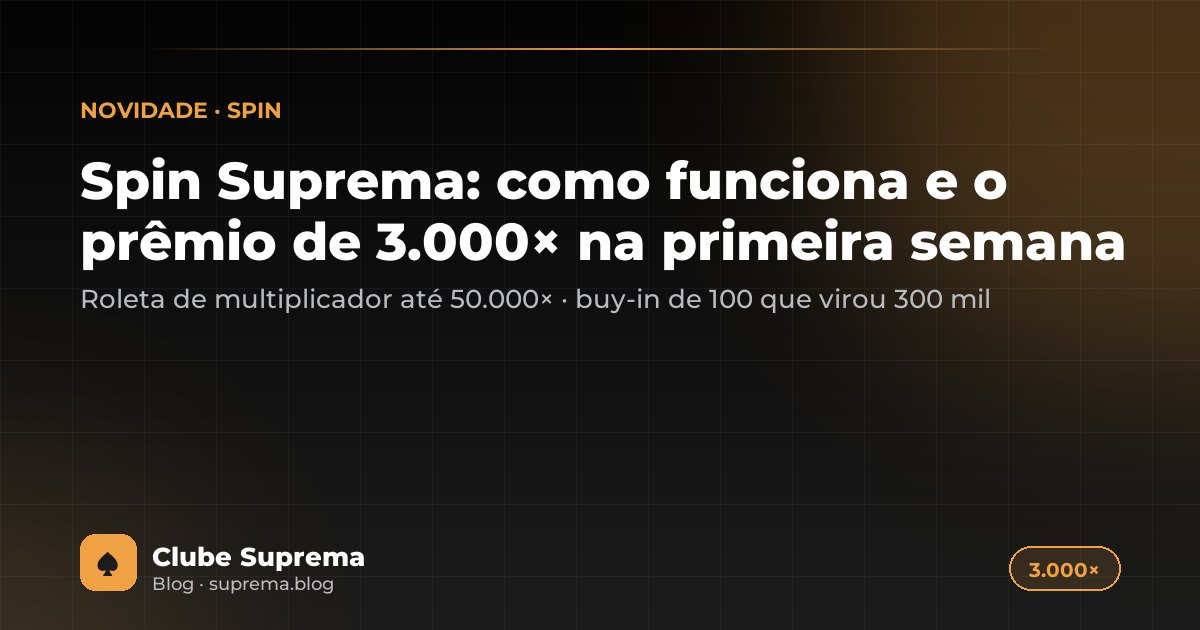
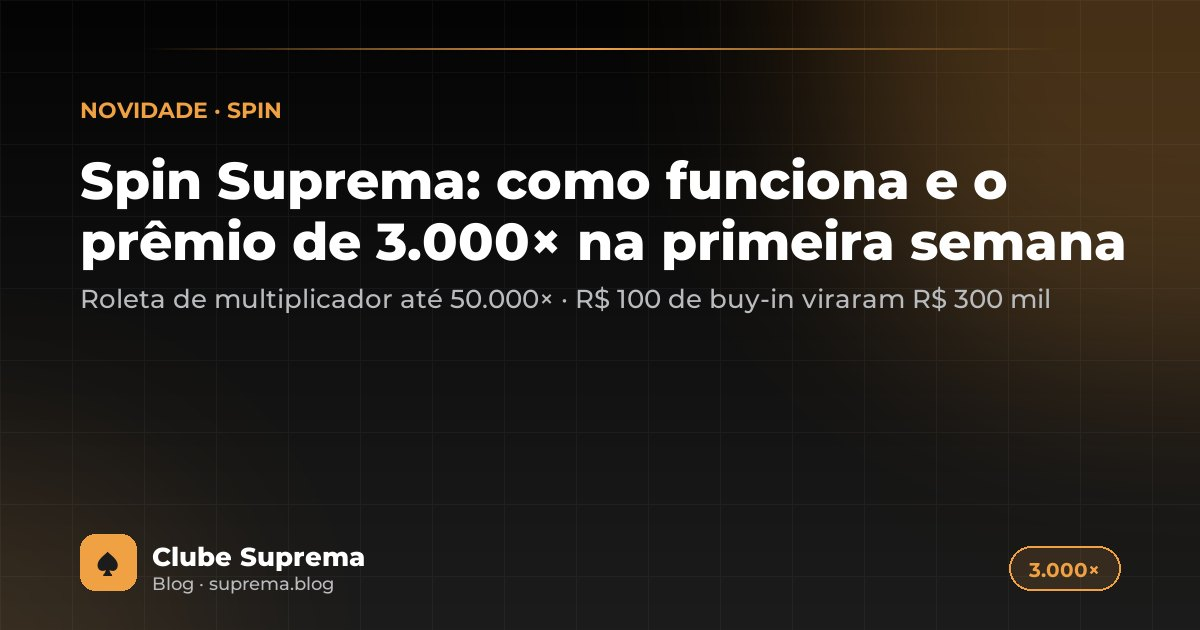
Post do Spin: valores em reais (buy-in de R$ 100, premiação de R$ 300 mil)

Changed region(s): [[0.5858, 0.4524, 0.8942, 0.5127], [0.4625, 0.4524, 0.555, 0.5127]]

diff --git a/content/blog/spin-suprema-como-funciona-e-primeiro-grande-ganhador.md b/content/blog/spin-suprema-como-funciona-e-primeiro-grande-ganhador.md
@@ -1,6 +1,6 @@
 ---
 title: "Spin Suprema: como funciona e o prêmio de 3.000× na primeira semana"
-description: O que é o Spin Suprema do app Suprema Poker, como a roleta do multiplicador funciona (até 50.000× o buy-in), mesas de 3 ou 6 jogadores, e a história do primeiro grande ganhador, que transformou um buy-in de 100 em 300 mil de premiação logo na primeira semana.
+description: O que é o Spin Suprema do app Suprema Poker, como a roleta do multiplicador funciona (até 50.000× o buy-in), mesas de 3 ou 6 jogadores, e a história do primeiro grande ganhador, que transformou um buy-in de R$ 100 em R$ 300 mil de premiação logo na primeira semana.
 date: 2026-10-24
 updated: 2026-10-24
 cover: /img/blog/spin-suprema-como-funciona-e-primeiro-grande-ganhador/cover.jpg
@@ -12,14 +12,14 @@ faq:
   - q: Qual o maior multiplicador do Spin Suprema?
     a: Nas mesas de 3 jogadores os multiplicadores chegam a 1.000× ou 10.000×, conforme a configuração; nas mesas de 6, a premiação máxima é de 50.000× o buy-in.
   - q: Como é dividida a premiação em um Spin grande?
-    a: No Spin de 3.000× registrado na primeira semana, a premiação total de 300.000 foi dividida em 150.000 para o campeão, 90.000 para o segundo e 60.000 para o terceiro, ou seja, 50%, 30% e 20%. Em multiplicadores baixos a premiação costuma ficar toda com o vencedor; a tabela completa está no app, em "Prêmios e probabilidades".
+    a: No Spin de 3.000× registrado na primeira semana, a premiação total de R$ 300.000 foi dividida em R$ 150.000 para o campeão, R$ 90.000 para o segundo e R$ 60.000 para o terceiro, ou seja, 50%, 30% e 20%. Em multiplicadores baixos a premiação costuma ficar toda com o vencedor; a tabela completa está no app, em "Prêmios e probabilidades".
   - q: Onde vejo as chances de cada multiplicador?
     a: Dentro do app, na própria área do Spin, em "Prêmios e probabilidades". Multiplicadores altos são raros; a maioria dos Spins sai com o multiplicador mínimo.
   - q: Preciso estar no Clube Suprema para jogar o Spin?
     a: O Spin é um formato do app Suprema Poker e aparece no lobby dos clubes que o oferecem. Entrando no Clube Suprema (ID 10001) você joga com as fichas do clube, compradas por PIX pelo Fichas 24h.
 ---
 
-O **Spin Suprema** chegou ao app Suprema Poker em outubro de 2026 e virou assunto em uma semana: um torneio que começa com três jogadores, dura minutos e pode pagar até **50.000 vezes o buy-in**. Este post explica como o formato funciona, o que já se sabe sobre multiplicadores e divisão de prêmios, e conta a história do **primeiro grande ganhador**, que viu a roleta parar em **3.000×** e um buy-in de 100 virar **300 mil** de premiação na mesa.
+O **Spin Suprema** chegou ao app Suprema Poker em outubro de 2026 e virou assunto em uma semana: um torneio que começa com três jogadores, dura minutos e pode pagar até **50.000 vezes o buy-in**. Este post explica como o formato funciona, o que já se sabe sobre multiplicadores e divisão de prêmios, e conta a história do **primeiro grande ganhador**, que viu a roleta parar em **3.000×** e um buy-in de R$ 100 virar **R$ 300 mil** de premiação na mesa.
 
 :::nota Em uma frase
 Spin Suprema = torneio relâmpago de 3 ou 6 jogadores, buy-in fixo, e uma roleta que define o prêmio antes da primeira carta. Quem leva a mesa, leva o grosso do prêmio.
@@ -39,12 +39,12 @@ Quem já jogou Spin & Go em outras salas reconhece a lógica. A diferença é qu
 
 ## Como funciona a roleta e a divisão do prêmio
 
-A premiação total é o **buy-in multiplicado pelo número sorteado**. Em um Spin de buy-in 100 com multiplicador 3.000×, a premiação é de 300.000. O que muda com o tamanho do multiplicador é a divisão:
+A premiação total é o **buy-in multiplicado pelo número sorteado**. Em um Spin de buy-in de R$ 100 com multiplicador 3.000×, a premiação é de R$ 300.000. O que muda com o tamanho do multiplicador é a divisão:
 
-| Multiplicador | Divisão observada | Exemplo com buy-in 100 |
+| Multiplicador | Divisão observada | Exemplo com buy-in de R$ 100 |
 |---|---|---|
 | Baixo (o mais comum) | Prêmio para o vencedor | o campeão leva tudo |
-| Alto, como 3.000× | 50% · 30% · 20% | 150.000 · 90.000 · 60.000 |
+| Alto, como 3.000× | 50% · 30% · 20% | R$ 150.000 · R$ 90.000 · R$ 60.000 |
 
 A tabela completa de multiplicadores, divisões e **probabilidades** fica no próprio app, em **Prêmios e probabilidades**. Vale abrir antes de sentar: os multiplicadores altos são raros por definição, e é essa raridade que financia os prêmios gigantes.
 
@@ -54,28 +54,28 @@ Quando a roleta para em um número baixo, só o primeiro lugar recebe: jogue par
 
 ## O primeiro grande ganhador: Spin de 3.000×
 
-Na primeira semana do formato, uma mesa de 3 jogadores do **Spin VI**, com **buy-in de 100**, viu a roleta parar em **3.000×**. Premiação total: **300.000**.
+Na primeira semana do formato, uma mesa de 3 jogadores do **Spin VI**, com **buy-in de R$ 100**, viu a roleta parar em **3.000×**. Premiação total: **R$ 300.000**.
 
 <figure class="narrow">
   <img src="/img/blog/spin-suprema-como-funciona-e-primeiro-grande-ganhador/spin-suprema-mesa-multiplicador-3000x.webp" alt="Mesa Spin NLH do app Suprema Poker com o multiplicador 3.000× em destaque, três jogadores e as cartas comunitárias 10 de paus, 4 de copas, rei de copas e 5 de ouros" width="736" height="1600" loading="lazy" decoding="async">
-  <figcaption>A mesa do Spin VI: buy-in 100, blinds 150/300 com ante 50 subindo para 200/400, e o selo "Multiplicador 3.000×" no centro do feltro.</figcaption>
+  <figcaption>A mesa do Spin VI: buy-in de R$ 100, blinds 150/300 com ante 50 subindo para 200/400, e o selo "Multiplicador 3.000×" no centro do feltro.</figcaption>
 </figure>
 
-A tela da mesa mostra o que estava em jogo: **Spin NLH**, buy-in 100, blinds de 150/300 com ante de 50 subindo para 200/400 em segundos, e o aviso de que o torneio aplica **restrição de GPS, IP, aparelho e documento**, as travas do app contra conluio e contas duplicadas. Três jogadores, stacks curtos e um prêmio de 300 mil no meio.
+A tela da mesa mostra o que estava em jogo: **Spin NLH**, buy-in de R$ 100, blinds de 150/300 com ante de 50 subindo para 200/400 em segundos, e o aviso de que o torneio aplica **restrição de GPS, IP, aparelho e documento**, as travas do app contra conluio e contas duplicadas. Três jogadores, stacks curtos e um prêmio de R$ 300 mil no meio.
 
 <figure class="narrow">
-  <img src="/img/blog/spin-suprema-como-funciona-e-primeiro-grande-ganhador/spin-suprema-classificacao-3000x.webp" alt="Tela de classificação do Suprema Poker Spin com o campeão Saulo43 em primeiro lugar, recompensa de 150.000, seguido de wonsovis com 90.000 e POCALIA com 60.000" width="736" height="1600" loading="lazy" decoding="async">
-  <figcaption>A classificação final: 150.000 para o campeão, 90.000 para o segundo e 60.000 para o terceiro.</figcaption>
+  <img src="/img/blog/spin-suprema-como-funciona-e-primeiro-grande-ganhador/spin-suprema-classificacao-3000x.webp" alt="Tela de classificação do Suprema Poker Spin com o campeão Saulo43 em primeiro lugar, recompensa de R$ 150.000, seguido de wonsovis com R$ 90.000 e POCALIA com R$ 60.000" width="736" height="1600" loading="lazy" decoding="async">
+  <figcaption>A classificação final: R$ 150.000 para o campeão, R$ 90.000 para o segundo e R$ 60.000 para o terceiro.</figcaption>
 </figure>
 
-O campeão foi **Saulo43**, que aparece na tela de classificação ao lado de um A♠4♠. Ele levou **150.000**; **wonsovis** ficou com **90.000** e **POCALIA** com **60.000**. Os três jogavam por clubes diferentes dentro do app, o que mostra o alcance do formato: a mesa junta jogadores de toda a rede Suprema.
+O campeão foi **Saulo43**, que aparece na tela de classificação ao lado de um A♠4♠. Ele levou **R$ 150.000**; **wonsovis** ficou com **R$ 90.000** e **POCALIA** com **R$ 60.000**. Os três jogavam por clubes diferentes dentro do app, o que mostra o alcance do formato: a mesa junta jogadores de toda a rede Suprema.
 
-Em números: um buy-in de 100 virou uma premiação total **3.000 vezes maior**, paga em fichas do clube, que no Clube Suprema entram e saem por PIX pelo Fichas 24h. É o tipo de resultado que o formato promete, e que aconteceu logo na primeira semana.
+Em números: R$ 100 de buy-in viraram uma premiação total **3.000 vezes maior**, R$ 300 mil, paga em fichas do clube, que no Clube Suprema entram e saem por PIX pelo Fichas 24h. É o tipo de resultado que o formato promete, e que aconteceu logo na primeira semana.
 
 ## Como jogar um Spin no app
 
 1. Entre no seu clube no app. Se ainda não estiver no Clube Suprema, veja [como entrar pelo link ou com o ID](/blog/como-entrar-no-clube-suprema).
-2. No lobby, abra a área do **Spin** e escolha o nível pelo buy-in (o Spin VI, do exemplo, tem buy-in 100).
+2. No lobby, abra a área do **Spin** e escolha o nível pelo buy-in (o Spin VI, do exemplo, tem buy-in de R$ 100).
 3. Toque em **Jogar agora** e aguarde a mesa encher: 3 ou 6 jogadores, conforme o torneio.
 4. Assista à roleta sortear o multiplicador. A partir daí, é um torneio normal de mesa curta, com blinds subindo rápido.
 5. Ao fim, a tela de **Classificação** mostra a divisão e o botão **Jogar agora** para a próxima mesa.
